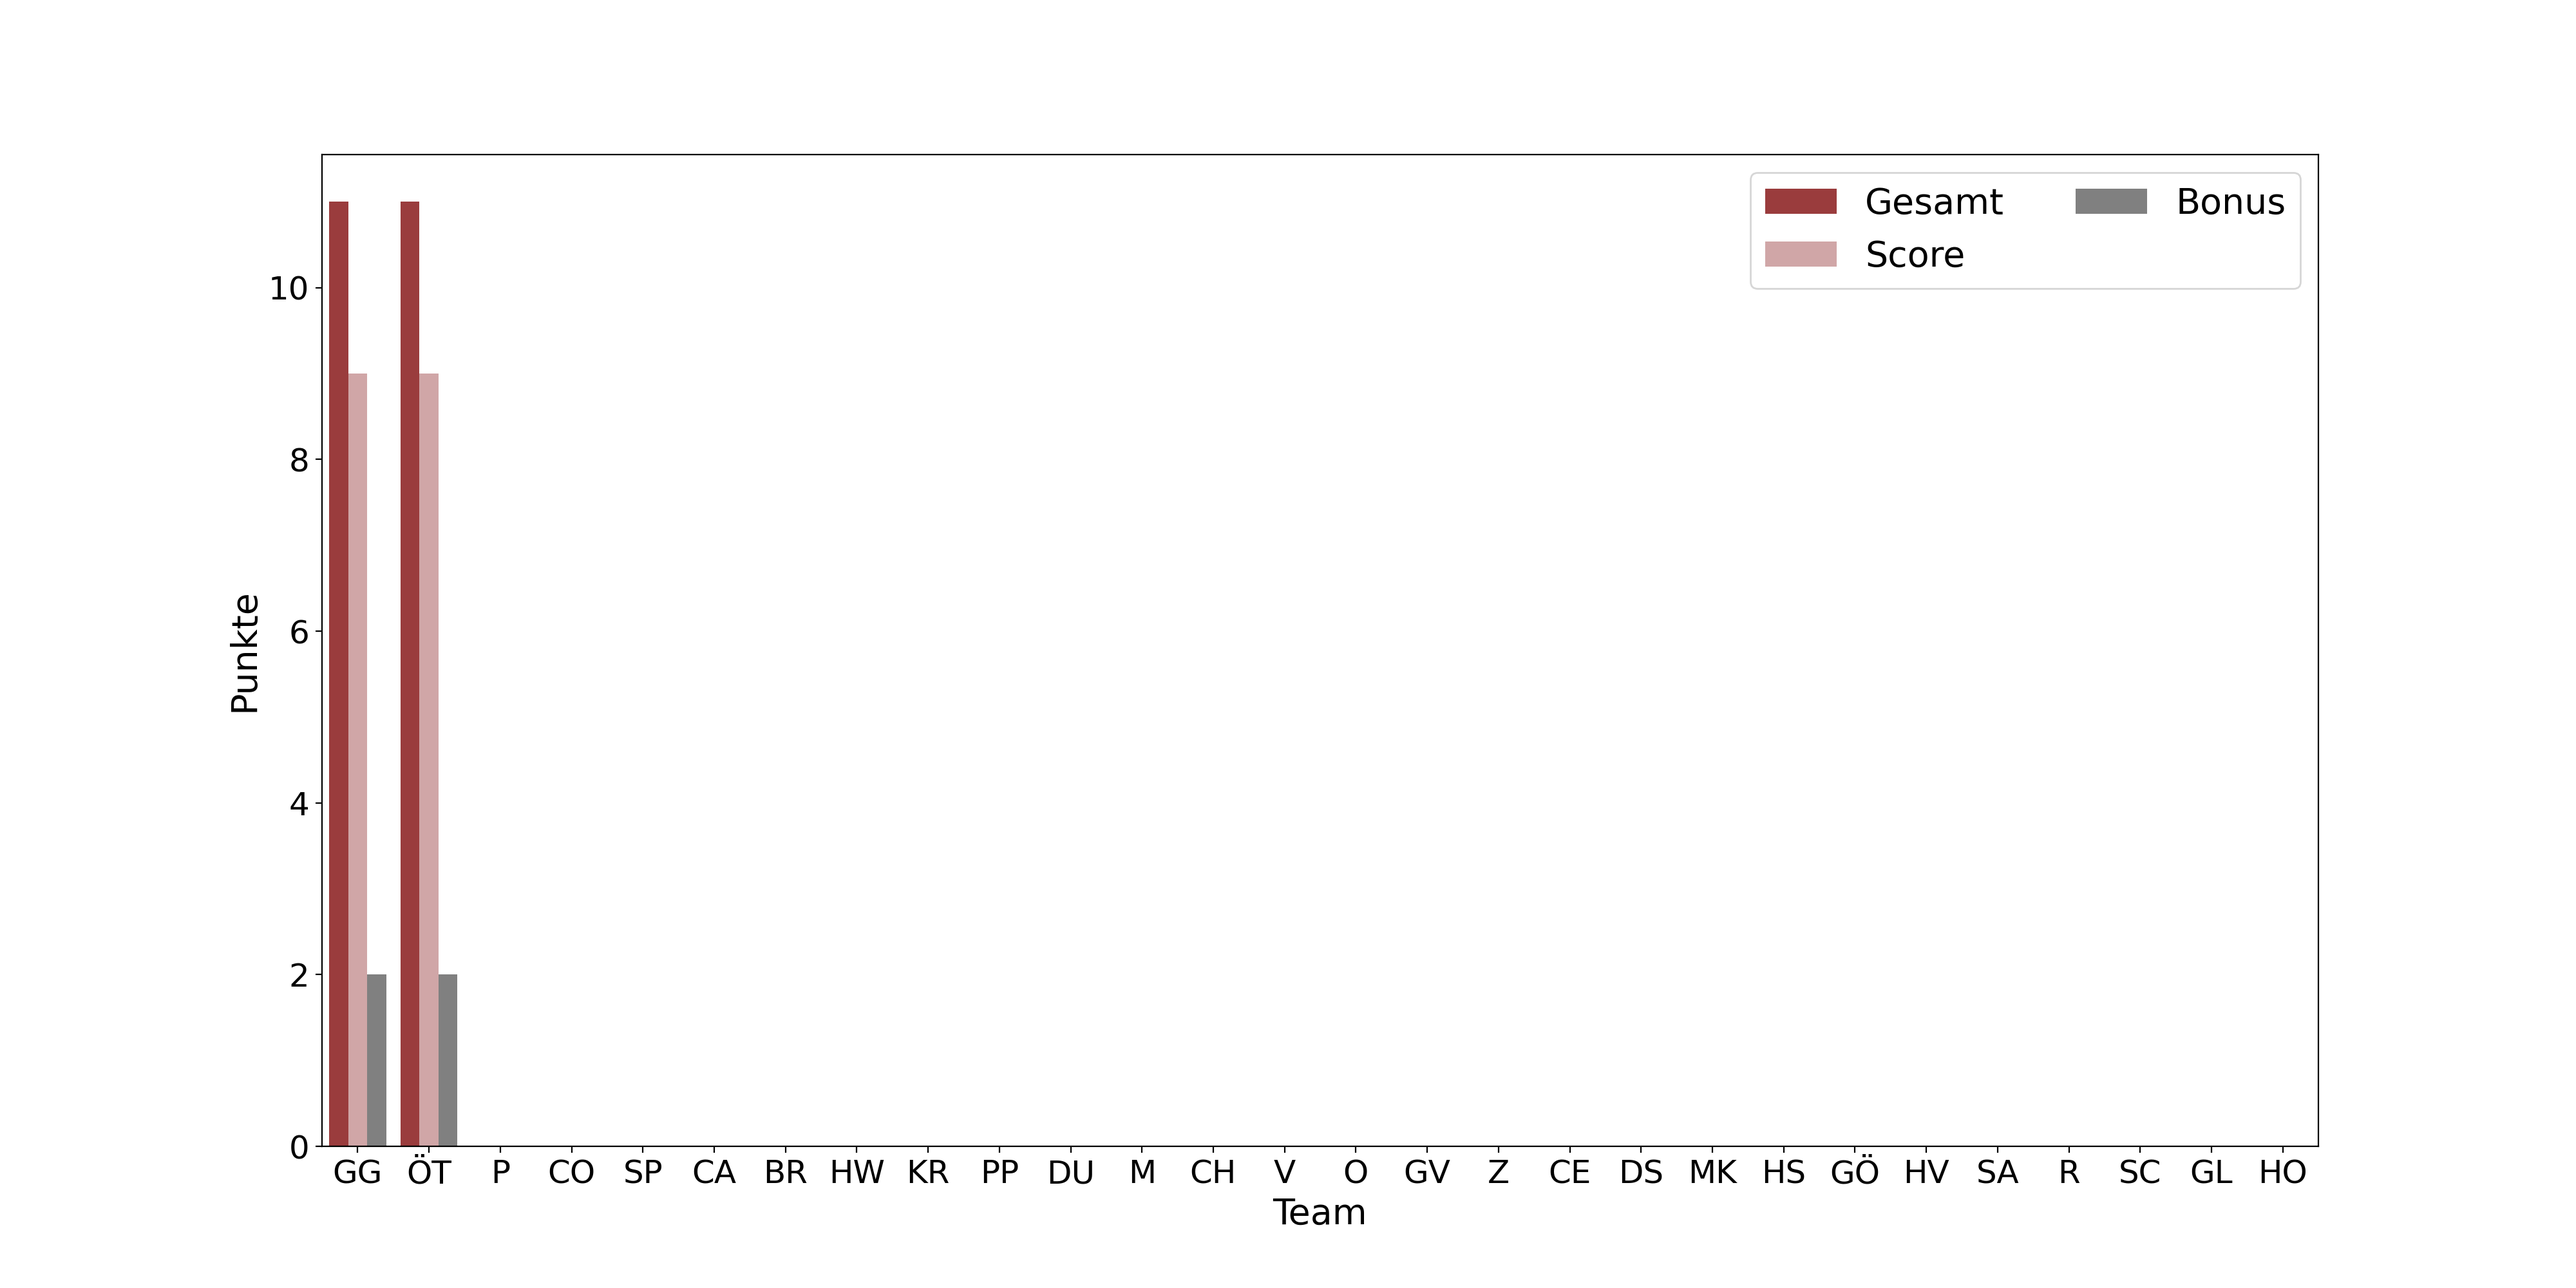
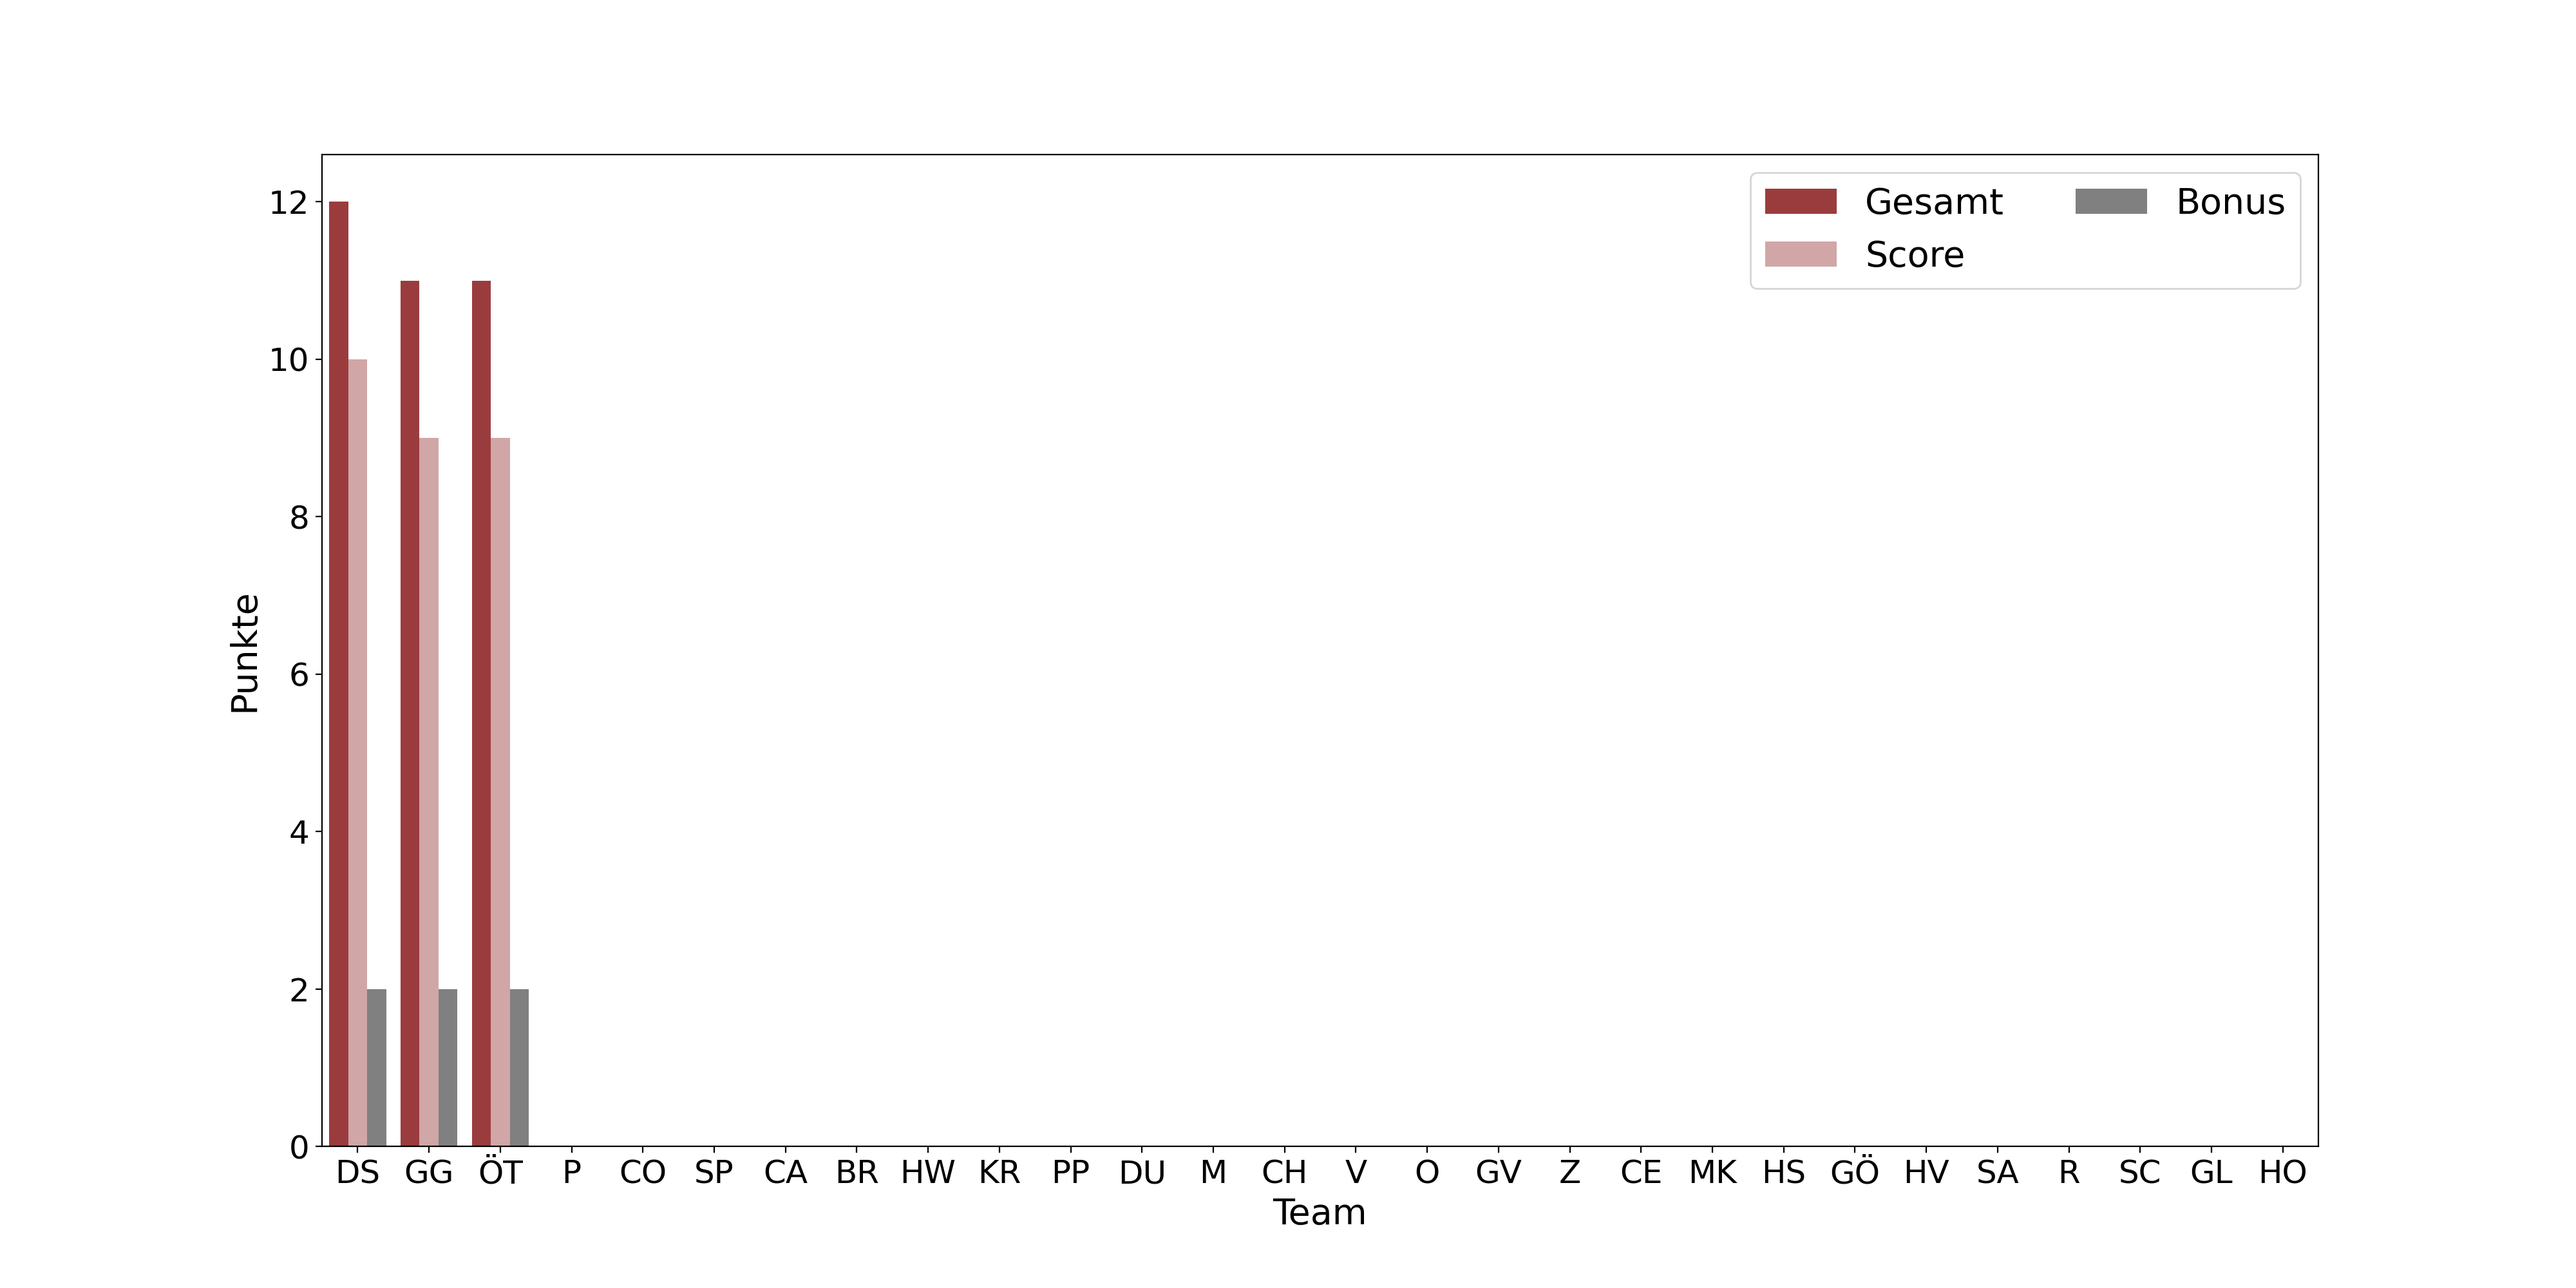
update

Changed region(s): [[0.125, 0.155, 0.6562, 0.93]]

diff --git a/css/style_teams.css b/css/style_teams.css
@@ -31,7 +31,7 @@
             background-color: #daeaf6
         }
         .O {
-            order: 14
+            order: 15
         }
         .O .team__all-points::after{ 
             content: " 0"
@@ -51,7 +51,7 @@
             background-color: #9bd0b7
         }
         .Z {
-            order: 16
+            order: 17
         }
         .Z .team__all-points::after{
             content: "0"
@@ -72,7 +72,7 @@
             background-color: #c23a22
         }
         .M {
-            order: 11
+            order: 12
         }
         .M .team__all-points::after{
             content: "0 "
@@ -80,22 +80,22 @@
 
 
         .DS .team__score::after {
-            content: "0/120"
+            content: "10/120"
         }
         .DS .team__stations::after {
-            content: "1/12"
+            content: "2/12"
         }
         .DS .team__bonus::after {
-            content: "0/36"
+            content: "2/36"
         }
         .DS .team__logo {
             background-color: #dab894
         }
         .DS {
-            order: 18
+            order: 0
         }
         .DS .team__all-points::after{
-            content: "0"
+            content: "12"
         }
         
 
@@ -112,7 +112,7 @@
             background-color: #d6eadf
         }
         .DU {
-            order: 10
+            order: 11
         }
         .DU .team__all-points::after{
             content: "0"
@@ -133,7 +133,7 @@
             background-color: #957DAD
         }
         .OT {
-            order: 1
+            order: 2
         }
         .OT .team__all-points::after{
             content: " 11"
@@ -154,7 +154,7 @@
             background-color: #E0BBE4
         }
         .GG {
-            order: 0
+            order: 1
         }
         .GG .team__all-points::after{
              content: "11"
@@ -174,7 +174,7 @@
             background-color: #d291bc
         }
         .CH {
-            order: 12
+            order: 13
         }
         .CH .team__all-points::after{
             content: "0"
@@ -214,7 +214,7 @@
             background-color: #ffdfdc
         }
         .GV {
-            order: 15
+            order: 16
         }
         .GV .team__all-points::after{
             content: "0"
@@ -254,7 +254,7 @@
             background-color: #cccccc
         }
         .V {
-            order: 13
+            order: 14
         }
         .V .team__all-points::after{
             content: "0"
@@ -314,7 +314,7 @@
             background-color: #5d5b6a
         }
         .P {
-            order: 2
+            order: 3
         }
         .P .team__all-points::after{
             content: "0"
@@ -376,7 +376,7 @@
             background-color: #ff928b
         }
         .CE {
-            order: 17
+            order: 18
         }
         .CE .team__all-points::after{
             content: "0"
@@ -396,7 +396,7 @@
             background-color: #7ec4cf
         }
         .PP {
-            order: 9
+            order: 10
         }
         .PP .team__all-points::after{
             content: "0"
@@ -416,7 +416,7 @@
             background-color: #758184
         }
         .HW {
-            order: 7
+            order: 8
         }
         .HW .team__all-points::after{
             content: "0"
@@ -436,7 +436,7 @@
             background-color: #ff8fab
         }
         .KR {
-            order: 8
+            order: 9
         }
         .KR .team__all-points::after{
             content: "0"
@@ -456,7 +456,7 @@
             background-color: #ff6663
         }
         .CO {
-            order: 3
+            order: 4
         }
         .CO .team__all-points::after{
             content: "0"
@@ -496,7 +496,7 @@
             background-color: #e8d1c5
         }
         .BR {
-            order: 6
+            order: 7
         }
         .BR .team__all-points::after{
             content: "0"
@@ -516,7 +516,7 @@
             background-color: #ffc8dd
         }
         .CA {
-            order: 5
+            order: 6
         }
         .CA .team__all-points::after{
             content: "0"
@@ -535,7 +535,7 @@
             background-color: #f6bc66
         }
         .SP {
-            order: 4
+            order: 5
         }
         .SP .team__all-points::after{
             content: "0"

diff --git a/css/style_station.css b/css/style_station.css
@@ -16,7 +16,7 @@
         }
 
         .E .station__teams::after {
-            content: "1/28"
+            content: "2/28"
         }
 
         .F .station__teams::after {
